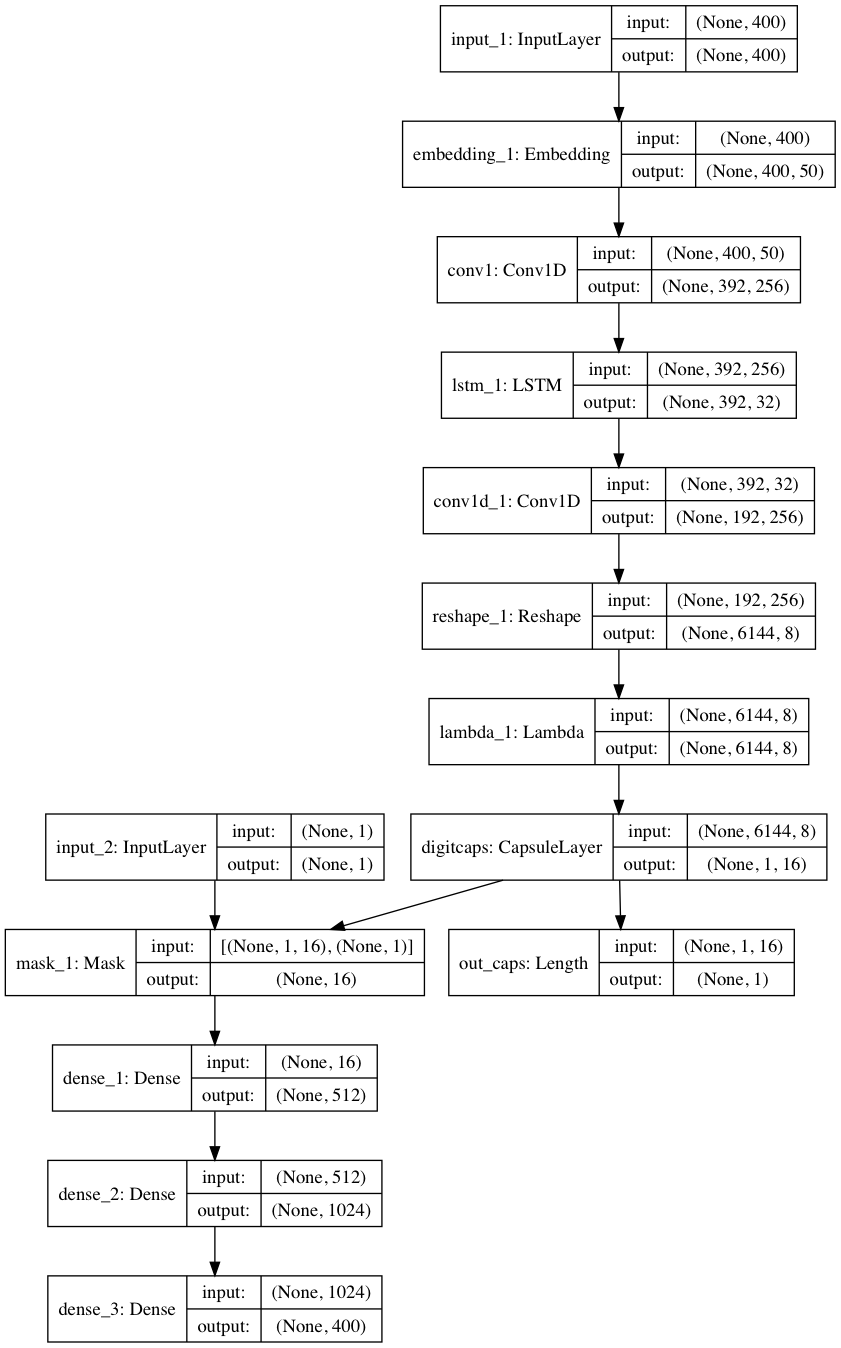
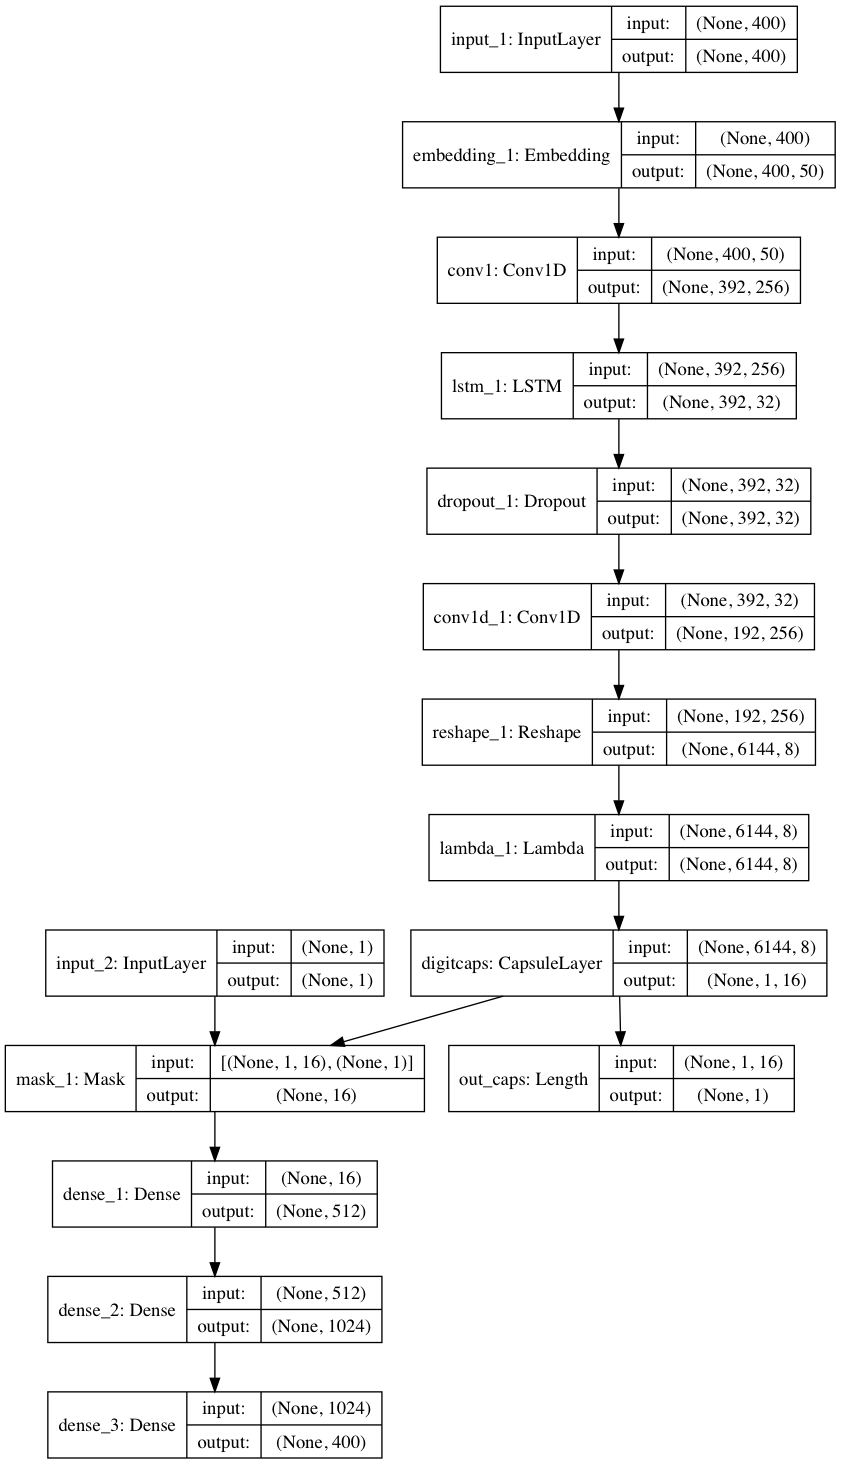
adds a dropout layer

Changed region(s): [[0.0, 0.0, 1.0, 0.997]]

diff --git a/capsulenet.py b/capsulenet.py
@@ -34,11 +34,11 @@ def CapsNet(input_shape, n_class, num_routing):
     conv1 = layers.Conv1D(filters=256, kernel_size=9, strides=1, padding='valid', activation='relu', name='conv1')(
         embed)
     print(conv1.shape)
-    from keras.layers import LSTM
+    from keras.layers import LSTM, Dropout
     lstm = LSTM(32, return_sequences=True)(conv1)
-    print(lstm.shape)
+    dropout = Dropout(.3)(lstm)
     # Layer 2: Conv2D layer with `squash` activation, then reshape to [None, num_capsule, dim_vector]
-    primarycaps = PrimaryCap(lstm, dim_vector=8, n_channels=32, kernel_size=9, strides=2, padding='valid')
+    primarycaps = PrimaryCap(dropout, dim_vector=8, n_channels=32, kernel_size=9, strides=2, padding='valid')
 
     # Layer 3: Capsule layer. Routing algorithm works here.
     digitcaps = CapsuleLayer(num_capsule=n_class, dim_vector=16, num_routing=num_routing, name='digitcaps')(primarycaps)
